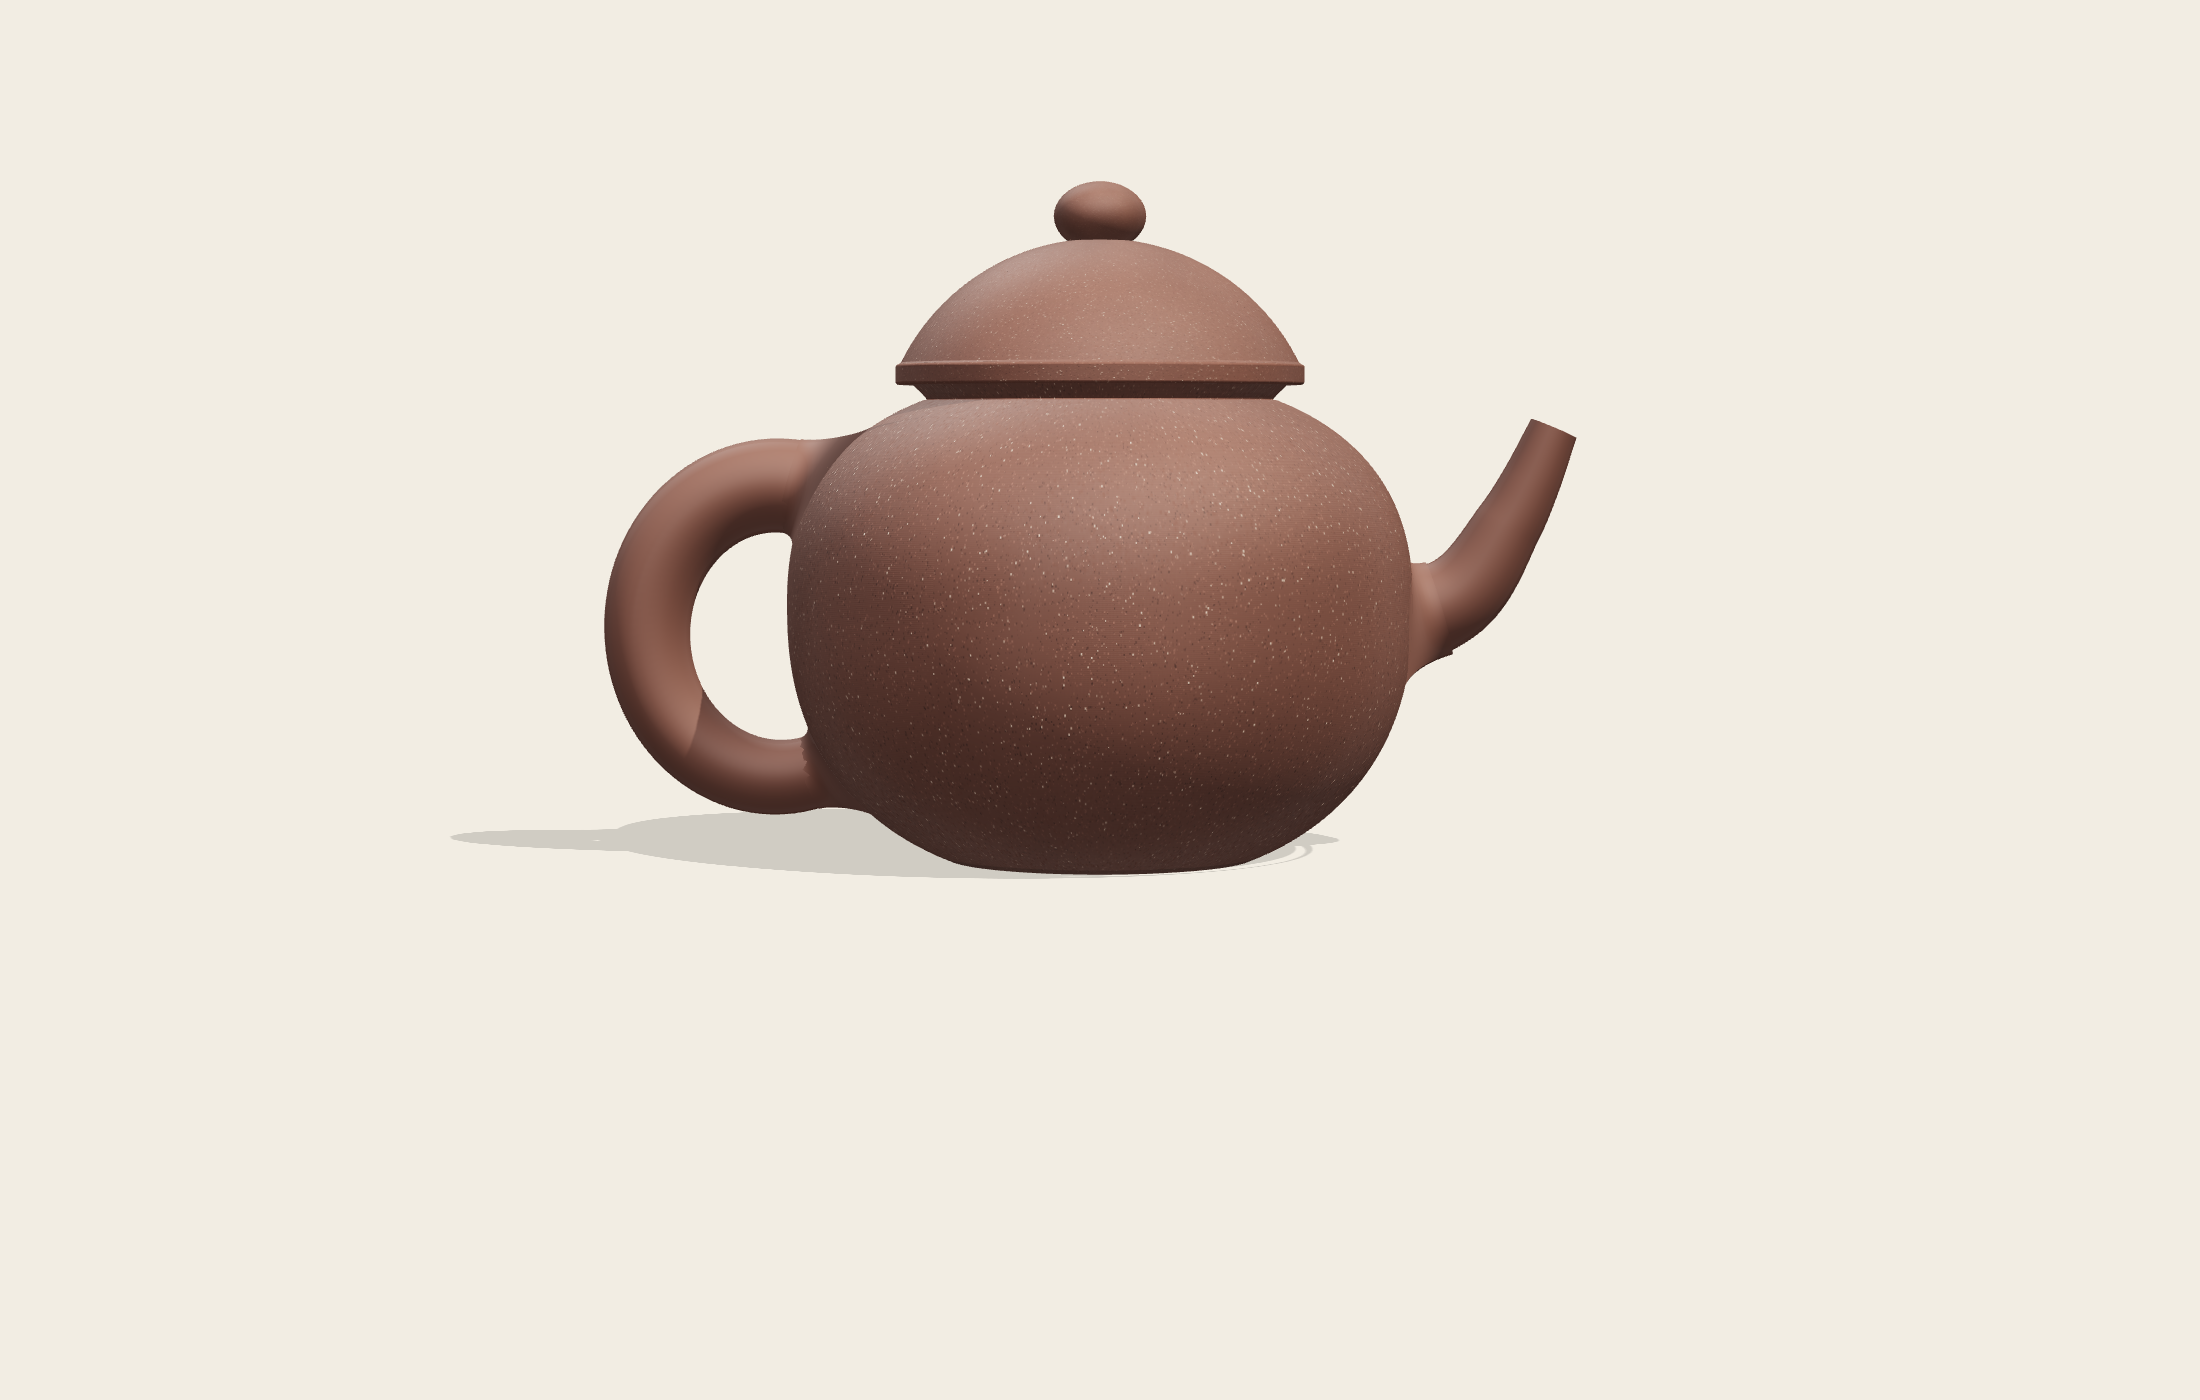
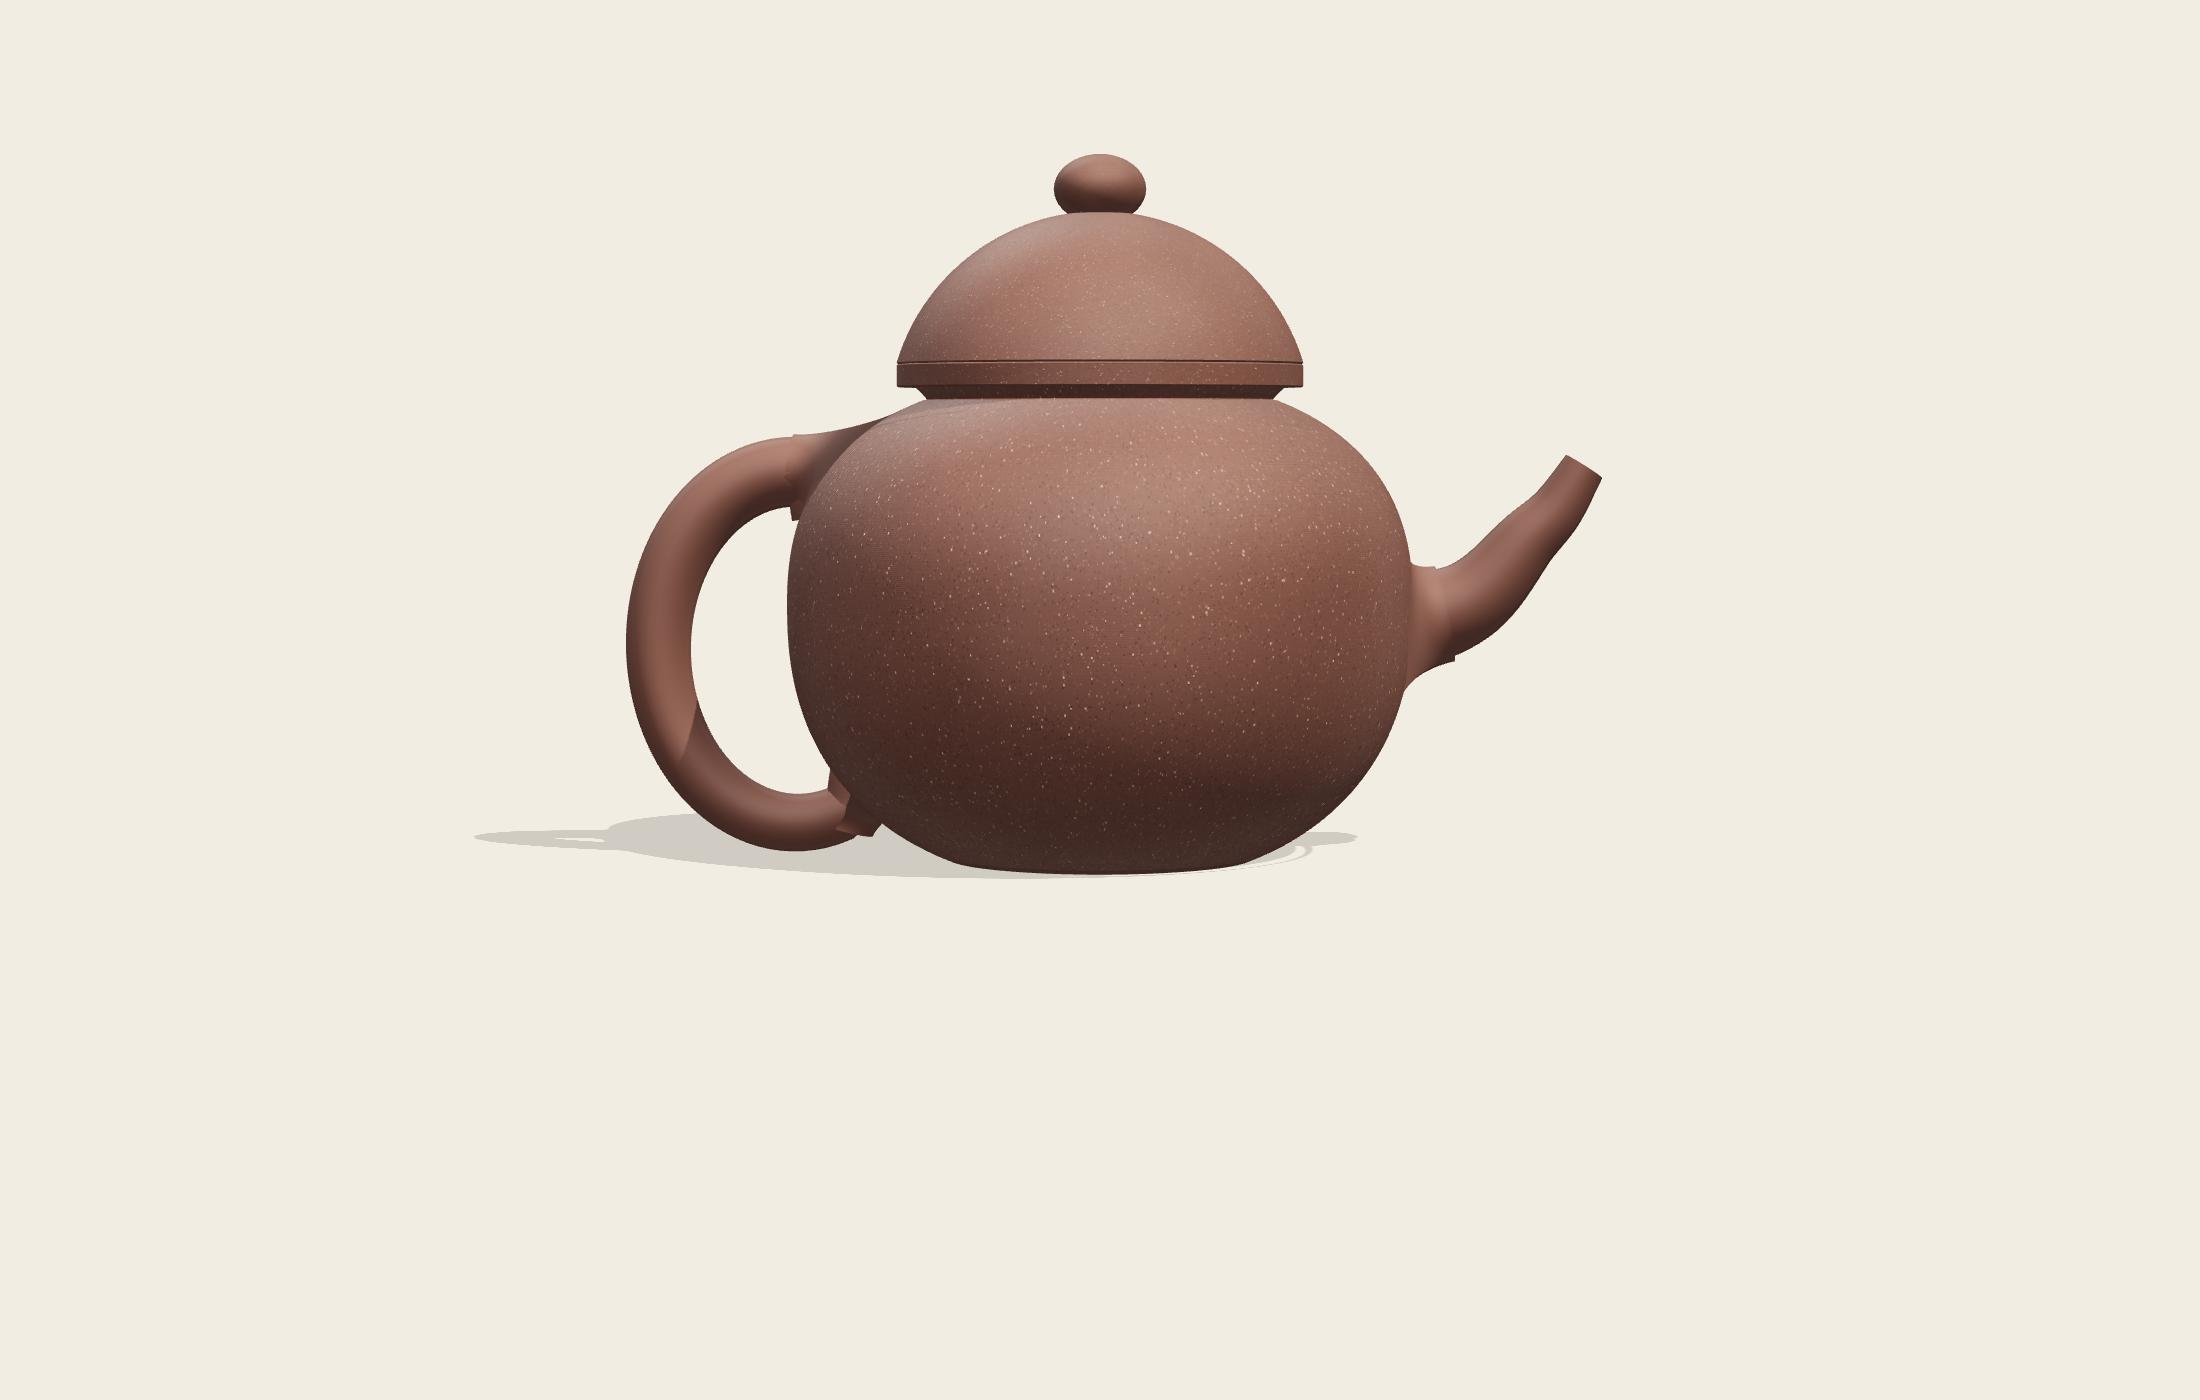
掇球: lid loses its saucer, spout runs flat before it climbs
Comparing part-by-part against the references at matched body width, rather
than judging the whole pot, made three faults legible. Two are fixed.

  lid    The dome sat on a flat projecting shelf — a bell on a saucer. On the
         real pots there is no shelf at all: the dome's own base is the widest
         circle and the skirt drops straight from it. brim -> 0, rise up to
         0.74 so the cap is generous rather than shallow. Chasing this I first
         went the wrong way (brim 0.145) because I read "the dome springs from
         inside the rim" off a blurred photo; a wide brim makes the saucer
         worse, not better. The bevel added to the brim shelf stays — it is
         right whenever brim > 0, which other pots may want.

  spout  It climbed from the moment it left the belly. A real 一弯嘴 runs out
         nearly flat and turns up late, so `rise` comes down and `tipUp` does
         the climbing.

  handle STILL NOT RIGHT — see below.

Also opened the brim/rise parameter ranges, which were capped below what the
form needs.

Claude-Session: https://claude.ai/code/session_01Au3NkrP4Zh9Vb2uEzJxxmj

Changed region(s): [[0.2473, 0.3071, 0.4018, 0.6143], [0.4018, 0.0921, 0.5873, 0.2764], [0.6491, 0.3071, 0.7418, 0.4914]]

diff --git a/src/components/lids.js b/src/components/lids.js
@@ -93,12 +93,12 @@ export const LIDS = {
     params: {
       overhang: { label: '盖沿', min: 0, max: 0.12, step: 0.002, default: 0.03 },
       thickness: { label: '盖厚', min: 0.02, max: 0.1, step: 0.002, default: 0.038 },
-      rise: { label: '穹高', min: 0.2, max: 1.0, step: 0.01, default: 0.68 },
+      rise: { label: '穹高', min: 0.2, max: 1.2, step: 0.01, default: 0.68 },
       flange: { label: '子口', min: 0, max: 0.12, step: 0.004, default: 0.05 },
       // the lid rim is a flat annulus and the cap springs from *inside* it.
       // Without this the dome starts at the full rim radius and the lid reads
       // tall and hat-like; on the real pots it reads broad and low.
-      brim: { label: '盖沿宽', min: 0, max: 0.12, step: 0.004, default: 0.03 },
+      brim: { label: '盖沿宽', min: 0, max: 0.28, step: 0.004, default: 0.03 },
       // 压盖 means the lid presses down *over* the mouth: the rim continues
       // below the seating plane as a hanging skirt that covers the body's
       // collar. Without it the lid just perches on the ledge.
@@ -110,7 +110,8 @@ export const LIDS = {
     // mouth is resized
     // the cap springs from the top of the brim, not from the seating plane
     top: (p, prof) =>
-      (prof.mouthR + p.overhang - (p.brim ?? 0)) * p.rise + p.thickness * 0.58,
+      (prof.mouthR + p.overhang - (p.brim ?? 0)) * p.rise
+      + p.thickness * 0.58 + (p.brim ?? 0) * 0.55,
     build(p, mouthR, material, prof) {
       const R = mouthR + p.overhang          // the rim, ball 2's widest circle
       const Rd = Math.max(R - (p.brim ?? 0), R * 0.5)   // where the cap springs
@@ -135,7 +136,10 @@ export const LIDS = {
       const Ri = Rs - T
       const rimEdge = Math.max(p.skirt ?? 0, T * 0.6)   // how far the skirt hangs
       const brimTop = T * 0.42
-      const domeBase = brimTop + T * 0.16     // where the cap actually springs
+      // The shelf between rim and dome climbs as it goes in. Held flat, a wide
+      // brim reads as a flying saucer; on the real pots it is a short stepped
+      // bevel hugging the dome.
+      const domeBase = brimTop + T * 0.16 + (p.brim ?? 0) * 0.55
       const thInner = Math.acos(
         Math.min(1, Math.max(-1, (Rs - h - domeBase) / Ri)),
       )

diff --git a/public/refs/index.html b/public/refs/index.html
@@ -30,6 +30,9 @@
 <figure><figcaption>掇球 — ours beside a real one at matched body width</figcaption>
 <a href="dq_compare6.png"><img src="dq_compare6.png" alt=""></a></figure>
 
+
+<figure><figcaption>掇球 — part by part against a reference: this is the view that shows what is still wrong</figcaption>
+<a href="part_compare.png"><img src="part_compare.png" alt=""></a></figure>
 <figure><figcaption>掇球 — the collar band close up, after the staircase fix</figcaption>
 <a href="neck_after.png"><img src="neck_after.png" alt=""></a></figure>
 
